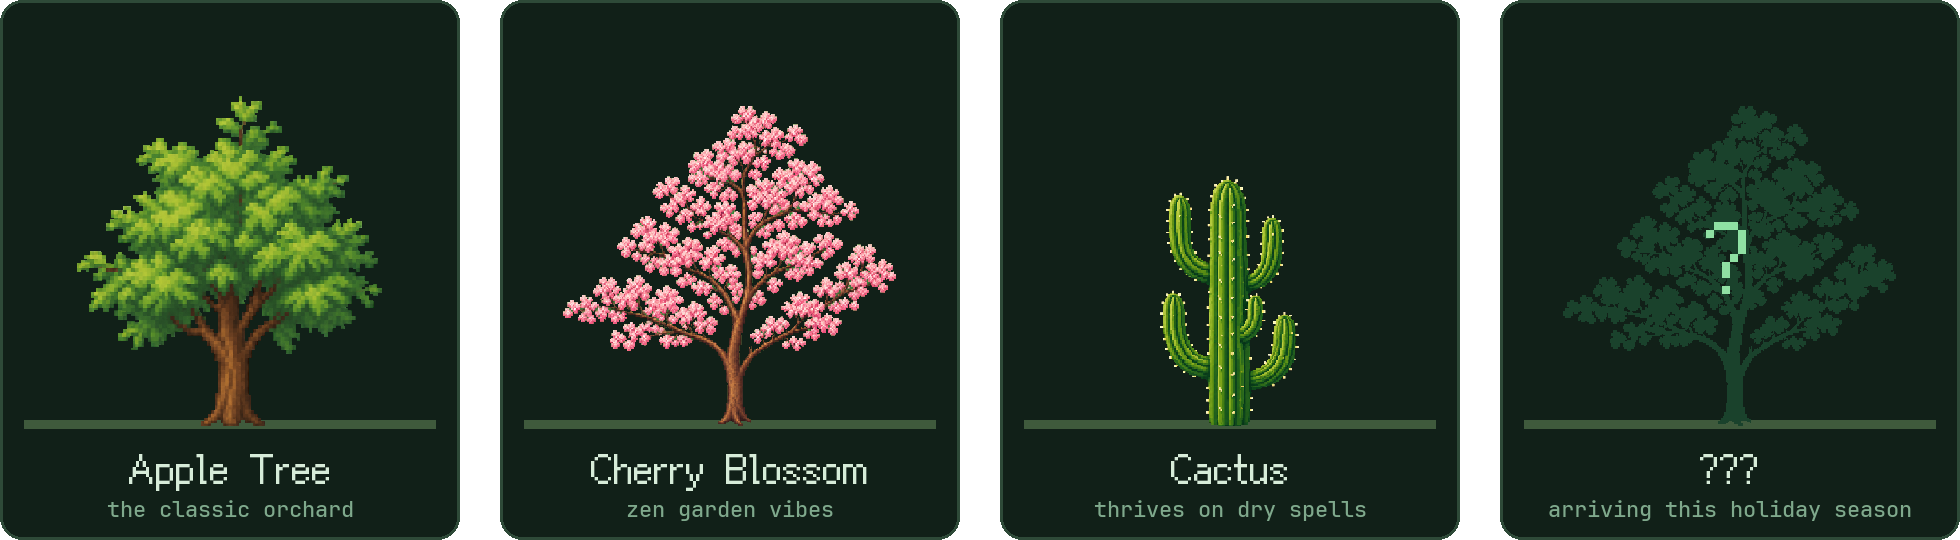
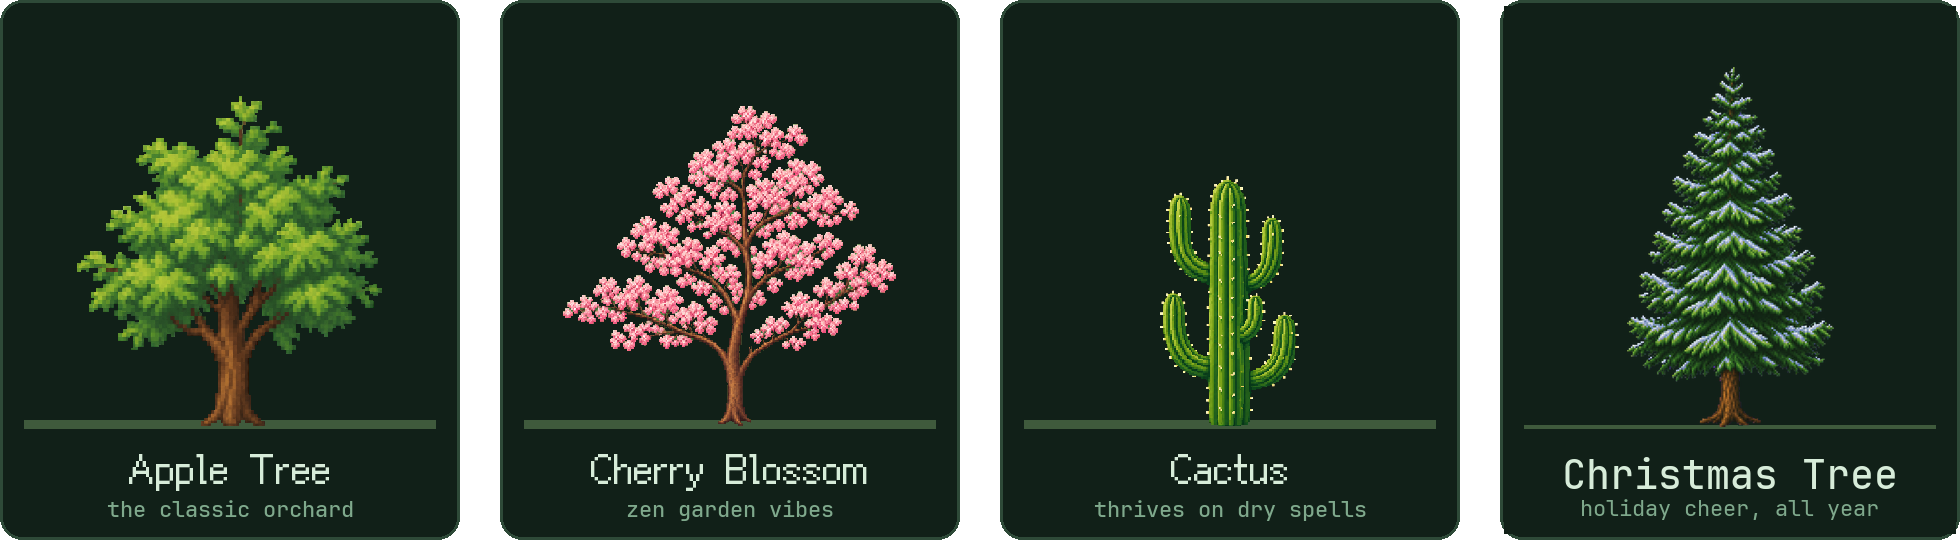
Sync docs & species art for the Christmas Tree (4th species)
Match the public repo to the shipped app + website:
- Reveal the Christmas Tree as the 4th species (was teased as a mystery
  "holiday" species); move the teaser to a 5th species.
- Regenerate assets/species*.png with the real Christmas tree in the
  4th card, built from the app sprite (cards 1-3 left untouched).
- Note per-tree fruit + the harvest-to-unlock progression chain.
- App now speaks 4 languages (EN/中文/日本語/한국어), not just EN & 中文.
- Dashboard: "in development" -> feature-complete, shipping next.
- Leaderboard: describe the visual tree gallery; add "current species"
  to the opt-in upload list (README, FAQ, PRIVACY).
- Update ROADMAP + CHANGELOG in both languages to match.

diff --git a/README.md b/README.md
@@ -40,13 +40,13 @@ Token Forest reads the token usage that Claude Code and Codex already record loc
 
 <img src="assets/growth-stages.png" alt="8 growth stages, from sprout to full tree" width="100%" />
 
-### 🌸 Multiple species, each with its own world
+### 🌸 Four species, each with its own world
 
-Unlock and switch between species, each with themed decorations you can earn and equip — torii gates, stone lanterns, wind chimes, bamboo fences, swings and more.
+Grow and switch between **four species — Apple Tree, Cherry Blossom, Cactus, and the new Christmas Tree** — each with its own fruit, its own set of stage names, and themed decorations you earn and equip: torii gates, stone lanterns, wind chimes, bamboo fences, swings, string lights and more. Each species unlocks the next as you harvest its fruit.
 
-<img src="assets/species.png" alt="Apple Tree, Cherry Blossom, Cactus — and a mystery species arriving this holiday season" width="100%" />
+<img src="assets/species.png" alt="Apple Tree, Cherry Blossom, Cactus and the Christmas Tree — four pixel species" width="100%" />
 
-> 🎄 **Something is coming this holiday season…** A fourth species is already growing in our greenhouse. Watch this repo for the reveal.
+> 🎄 **The Christmas Tree has arrived.** The holiday species just took root — hang ornaments, string the lights, and trim it all the way to *Christmas Splendor*. And a fifth species is already sprouting in our greenhouse…
 
 ### 🍎 Fruit, harvests, and a tiny shop
 
@@ -64,20 +64,20 @@ Big tree covering your work? Switch to a Dynamic-Island-style capsule: a tiny pi
 
 ### 🏆 Global leaderboard (opt-in)
 
-Feeling competitive? Opt in to the [global leaderboard](https://www.tokenforest.com.au) and see how your forest ranks worldwide. Strictly opt-in: only your nickname, region, tree total and growth stage are submitted — and opting out removes your entry completely.
+Feeling competitive? Opt in to the [global leaderboard](https://www.tokenforest.com.au) and see how your forest ranks worldwide — every player's own tree, flagged by region, lined up side by side and ranked by the tokens they've grown. Strictly opt-in: only your nickname, region, current species, tree total and growth stage are submitted — and opting out removes your entry completely.
 
 <img src="assets/leaderboard.png" alt="The global leaderboard, ranking players by the tokens they've grown into their trees" width="100%" />
 
-### 📊 Dashboard — in development
+### 📊 Dashboard — feature-complete, shipping next
 
-A report card for your forest: days planted, lifetime tokens, a growth curve over time, per-model breakdowns for Claude and Codex, and an honest cost estimate computed **offline** from a built-in price table.
+A report card for your forest: days planted, lifetime tokens, a growth curve over time, per-model breakdowns for Claude and Codex, a 26-week activity heatmap, per-project splits, and one honest line per conversation — with a cost estimate computed **offline** from a built-in price table (four token classes priced separately, cache reads at 0.1×).
 
 ### And the quality-of-life details
 
 - **Featherweight** — a native desktop widget, not a game engine. Starts fast, sips resources.
 - **Stays out of your way** — drag anywhere, snap to the corner, lock position, always-on-top toggle, launch at startup, hide/show in one click.
 - **Poke your tree** — click it. It wiggles. That's it. It's great.
-- **Speaks your language** — app in English & 中文; website in English, 中文, 日本語 and 한국어.
+- **Speaks your language** — app **and** website in English, 中文, 日本語 and 한국어.
 
 ---
 
@@ -90,7 +90,7 @@ Token Forest is built on one rule: **what happens on your machine stays on your 
 | Read the token **counts** from usage logs that Claude Code / Codex already keep locally | Read your code, prompts, or conversation content |
 | Compute growth, stats and costs entirely on-device | Send telemetry or analytics anywhere |
 | Store its state in small local files | Talk to the network at all — unless you opt in to the leaderboard |
-| (Leaderboard, opt-in only) submit nickname, region, tree total, growth stage | Upload anything else, ever |
+| (Leaderboard, opt-in only) submit nickname, region, current species, tree total, growth stage | Upload anything else, ever |
 
 Read the full [privacy notes](docs/PRIVACY.md).
 
@@ -103,7 +103,7 @@ Token Forest is in **public beta** and free to use.
 - **Download** — grab the latest Windows / macOS build from [tokenforest.com.au](https://www.tokenforest.com.au)
 - **Requirements** — Windows 10/11 or macOS; [Claude Code](https://claude.com/claude-code) and/or Codex installed (that's where the tokens come from!)
 
-⭐ **Star this repo** to follow releases and the 🎄 holiday reveal.
+⭐ **Star this repo** to follow releases and the next 🌲 species reveal.
 
 ---
 
@@ -113,8 +113,8 @@ The short version — see the full [roadmap](docs/ROADMAP.md) for details.
 
 | | |
 | --- | --- |
-| ✅ Shipped | Live token tracking (Claude Code + Codex) · 8-stage growth · 3 species with decorations · fruit & shop · bubbles · capsule mode · opt-in leaderboard · Windows & macOS |
-| 🚧 In progress | Stats dashboard · one-click installers · **🎄 a certain festive species** |
+| ✅ Shipped | Live token tracking (Claude Code + Codex) · 8-stage growth · **4 species (incl. 🎄 Christmas Tree)** with decorations · fruit & shop · bubbles · capsule mode · opt-in leaderboard · Windows & macOS · English / 中文 / 日本語 / 한국어 |
+| 🚧 In progress | Stats dashboard (feature-complete) · one-click installers · **🌲 the next species** |
 | 🔭 Next | Seasons & day/night · offline catch-up growth · achievements & streaks · more species, decorations and supported AI tools |
 
 ---

diff --git a/docs/ROADMAP.md b/docs/ROADMAP.md
@@ -9,19 +9,19 @@
 
 - **Live token tracking** — reads Claude Code and Codex usage logs locally, in real time, incrementally.
 - **A tree that grows** — 8 growth stages from seed to full canopy, driven purely by the tokens you spend. Progress is saved between sessions.
-- **Three species** — Apple Tree, Cherry Blossom, and Cactus, each with themed decorations (torii gate, stone lantern, wind chimes, bamboo fence, swing, fences…).
+- **Four species** — Apple Tree, Cherry Blossom, Cactus, and the 🎄 Christmas Tree, each with its own fruit and themed decorations (torii gate, stone lantern, wind chimes, bamboo fence, swing, string lights, fences…). Each species unlocks the next as you harvest its fruit.
 - **Fruit & shop** — mature trees bear fruit; harvest it and spend it on decorations.
 - **Token bubbles** — live per-conversation bubbles above the tree, color-coded by source.
 - **Capsule mode** — a Dynamic-Island-style mini pill showing engine + status; one click to switch back to the full tree.
 - **Global leaderboard (opt-in)** — anonymous, nickname-based ranking on the website; opting out deletes your entry.
 - **Windows & macOS** — one codebase, both platforms.
-- **Languages** — app in English & 中文; website in English, 中文, 日本語, 한국어.
+- **Languages** — app and website in English, 中文, 日本語, 한국어.
 
 ## 🚧 In progress
 
-- **📊 Dashboard** — days planted, lifetime totals, a historical growth curve, per-model breakdowns (Claude & Codex), and an offline cost estimate with per-class token pricing.
+- **📊 Dashboard** — feature-complete, shipping with the next release: days planted, lifetime totals, a historical growth curve, per-model breakdowns (Claude & Codex), a 26-week activity heatmap, per-project splits, per-conversation receipts, and an offline cost estimate with per-class token pricing.
 - **📦 One-click installers** — signed, packaged builds for Windows and macOS.
-- **🎄 A festive new species** — arriving this holiday season. That's all we're saying. (It's a Christmas tree. We said too much.)
+- **🌲 The next species** — the holiday tree has taken root; another species is already sprouting in the greenhouse.
 
 ## 🔭 Next
 

diff --git a/docs/ROADMAP.zh-CN.md b/docs/ROADMAP.zh-CN.md
@@ -9,19 +9,19 @@
 
 - **实时 token 追踪** —— 本地、实时、增量读取 Claude Code 和 Codex 的用量日志。
 - **一棵会长大的树** —— 从种子到繁茂树冠的 8 个成长阶段，完全由你花掉的 token 驱动。进度在多次会话之间保存。
-- **三个树种** —— 苹果树、樱花树、仙人掌，每种都有专属主题装饰（鸟居、石灯笼、风铃、竹篱笆、秋千、各式栅栏……）。
+- **四个树种** —— 苹果树、樱花树、仙人掌，以及 🎄 圣诞树，每种都有自己的果实和专属主题装饰（鸟居、石灯笼、风铃、竹篱笆、秋千、彩灯、各式栅栏……）。收获当前树的果实即可解锁下一个树种。
 - **果实与商店** —— 成熟的树会结果；收获后可用来购买装饰。
 - **token 气泡** —— 树上方的实时气泡，一次对话一个，按来源用颜色区分。
 - **胶囊模式** —— "灵动岛"式的迷你药丸，显示引擎与状态；一键切回完整大树。
 - **全球排行榜（自愿加入）** —— 官网上的匿名昵称排名；退出即删除你的记录。
 - **Windows & macOS** —— 一套代码，两个平台。
-- **多语言** —— 应用支持 English & 中文；官网支持 English、中文、日本語、한국어。
+- **多语言** —— 应用与官网都支持 English、中文、日本語、한국어。
 
 ## 🚧 进行中
 
-- **📊 数据面板** —— 种植天数、累计总量、历史成长曲线、各模型用量拆分（Claude & Codex），以及带四类 token 单价的离线成本估算。
+- **📊 数据面板** —— 已开发完成，随下个版本推出：种植天数、累计总量、历史成长曲线、各模型用量拆分（Claude & Codex）、26 周活跃热力图、按项目分账、每次对话一行账单，以及带四类 token 单价的离线成本估算。
 - **📦 一键安装包** —— 已签名、打包好的 Windows 和 macOS 版本。
-- **🎄 一个节日新树种** —— 节日季登场。我们只能说这么多。（好吧，是圣诞树。说漏嘴了。）
+- **🌲 下一个树种** —— 节日树已经扎根；下一个树种正在温室里悄悄发芽。
 
 ## 🔭 下一步
 

diff --git a/CHANGELOG.md b/CHANGELOG.md
@@ -6,6 +6,9 @@ Public release notes for Token Forest. Dates are when features reached the beta.
 
 ## July 2026 — the forest grows
 
+- 🎄 **Christmas Tree — the fourth species** — a snow-dusted pine, unlocked at the end of the progression chain. Hang ornaments, string the lights, and trim it all the way to "Christmas Splendor." Every species now carries its own fruit and its own set of stage names.
+- 🌏 **Now in four languages** — the app UI speaks English, 中文, 日本語 and 한국어 (the website already did).
+- 📊 **Dashboard is feature-complete** — growth, usage and per-conversation receipts, a 26-week heatmap, per-project splits and offline pricing — shipping with the next release.
 - 💊 **Capsule mode** — Dynamic-Island-style mini pill: see which engine is running and whether it's done, without the full tree on screen.
 - 🌸 **Two new species** — Cherry Blossom and Cactus join the Apple Tree, each with its own themed decorations (torii gate, stone lantern, wind chimes, bamboo fence, and more).
 - 🍎 **Fruit & shop** — mature trees bear fruit; harvest it and spend it on decorations you can equip per tree.
@@ -23,4 +26,4 @@ Public release notes for Token Forest. Dates are when features reached the beta.
 
 ---
 
-🎄 *Next up: the dashboard, one-click installers, and a certain festive species — see the [roadmap](docs/ROADMAP.md).*
+🌲 *Next up: one-click installers and the next species — see the [roadmap](docs/ROADMAP.md).*

diff --git a/CHANGELOG.zh-CN.md b/CHANGELOG.zh-CN.md
@@ -6,6 +6,9 @@ Token Forest 的对外发布说明。日期为功能进入测试版的时间。
 
 ## 2026 年 7 月 —— 森林成形
 
+- 🎄 **圣诞树 —— 第四个树种** —— 一棵覆着薄雪的松树，在进阶链的最末端解锁。挂上彩球、缠好彩灯，一路装点到「圣诞盛装」。每个树种现在都有自己的果实和自己的一套阶段名。
+- 🌏 **新增至四种语言** —— 应用界面现已支持 English、中文、日本語 和 한국어（官网早已支持）。
+- 📊 **数据面板已开发完成** —— 成长、用量与每次对话账单、26 周热力图、按项目分账、离线计价——随下个版本推出。
 - 💊 **胶囊模式** —— "灵动岛"式迷你药丸：不用把整棵大树摆在屏幕上，也能看到哪个引擎在跑、跑完了没。
 - 🌸 **两个新树种** —— 樱花树和仙人掌加入苹果树的行列，各带专属主题装饰（鸟居、石灯笼、风铃、竹篱笆等）。
 - 🍎 **果实与商店** —— 成熟的树会结果；收获后可购买并按树装备装饰。
@@ -23,4 +26,4 @@ Token Forest 的对外发布说明。日期为功能进入测试版的时间。
 
 ---
 
-🎄 *接下来：数据面板、一键安装包，以及某个节日限定树种——见[路线图](docs/ROADMAP.zh-CN.md)。*
+🌲 *接下来：一键安装包，以及下一个树种——见[路线图](docs/ROADMAP.zh-CN.md)。*

diff --git a/docs/FAQ.md b/docs/FAQ.md
@@ -39,7 +39,7 @@ Token Forest counts **all four token classes** — input, output, cache read, ca
 Currently the tree only grows while the app is running. "Offline catch-up growth" is on the [roadmap](ROADMAP.md).
 
 ### Can I have more than one tree?
-You unlock and switch between species (Apple, Cherry Blossom, Cactus — each keeps its own progress, fruit, and decorations). And yes, a fourth species arrives this holiday season. 🎄
+You unlock and switch between **four** species (Apple, Cherry Blossom, Cactus, and the 🎄 Christmas Tree — each keeps its own progress, fruit, and decorations). Each one unlocks the next as you harvest its fruit, and the Christmas Tree sits at the end of the chain. A fifth species is already sprouting in the greenhouse.
 
 ### What are fruit for?
 Mature trees produce fruit over time. Harvest by clicking, then spend fruit in the shop on decorations for your tree.
@@ -50,7 +50,7 @@ Switch to **capsule mode** — a tiny status pill in the corner — or toggle al
 ## Leaderboard
 
 ### What does the leaderboard upload?
-Nickname, region, tree token total, and growth stage — nothing else, tied to an anonymous account. See [privacy notes](PRIVACY.md).
+Nickname, region, current species, tree token total, and growth stage — nothing else, tied to an anonymous account. See [privacy notes](PRIVACY.md).
 
 ### How do I get off the leaderboard?
 Turn it off in the app. Your entry is deleted from the server, not just hidden.

diff --git a/docs/FAQ.zh-CN.md b/docs/FAQ.zh-CN.md
@@ -39,7 +39,7 @@ Token Forest 统计**全部四类 token**——输入、输出、缓存读、缓
 目前树只在应用运行时生长。"离线补长"在[路线图](ROADMAP.zh-CN.md)上。
 
 ### 我能同时有好几棵树吗？
-你可以解锁并在树种之间切换（苹果、樱花、仙人掌——每种各自保留自己的进度、果实和装饰）。而且没错，第四个树种会在节日季登场。🎄
+你可以解锁并在**四个**树种之间切换（苹果、樱花、仙人掌，以及 🎄 圣诞树——每种各自保留自己的进度、果实和装饰）。收获当前树的果实就会解锁下一个树种，圣诞树位于进阶链的最末端。而第五个树种，已经在温室里悄悄发芽。
 
 ### 果实有什么用？
 成熟的树会随时间产出果实。点击收获，再用果实在商店里买装饰装扮你的树。
@@ -50,7 +50,7 @@ Token Forest 统计**全部四类 token**——输入、输出、缓存读、缓
 ## 排行榜
 
 ### 排行榜会上传什么？
-昵称、地区、树的 token 总量和成长阶段——仅此而已，且绑定在一个匿名账户上。详见[隐私说明](PRIVACY.zh-CN.md)。
+昵称、地区、当前树种、树的 token 总量和成长阶段——仅此而已，且绑定在一个匿名账户上。详见[隐私说明](PRIVACY.zh-CN.md)。
 
 ### 怎么退出排行榜？
 在应用里关掉它。你的记录会从服务器**删除**，而不只是隐藏。

diff --git a/docs/PRIVACY.md b/docs/PRIVACY.md
@@ -37,7 +37,7 @@ The **only** network feature is the **leaderboard**, and it is strictly opt-in:
 
 | | |
 | --- | --- |
-| What's submitted | your chosen nickname, region, tree token total, growth stage |
+| What's submitted | your chosen nickname, region, current species, tree token total, growth stage |
 | How you're identified | an anonymous account — no email, no name, no machine info |
 | Opting out | turning the leaderboard off **deletes your entry** from the server |
 